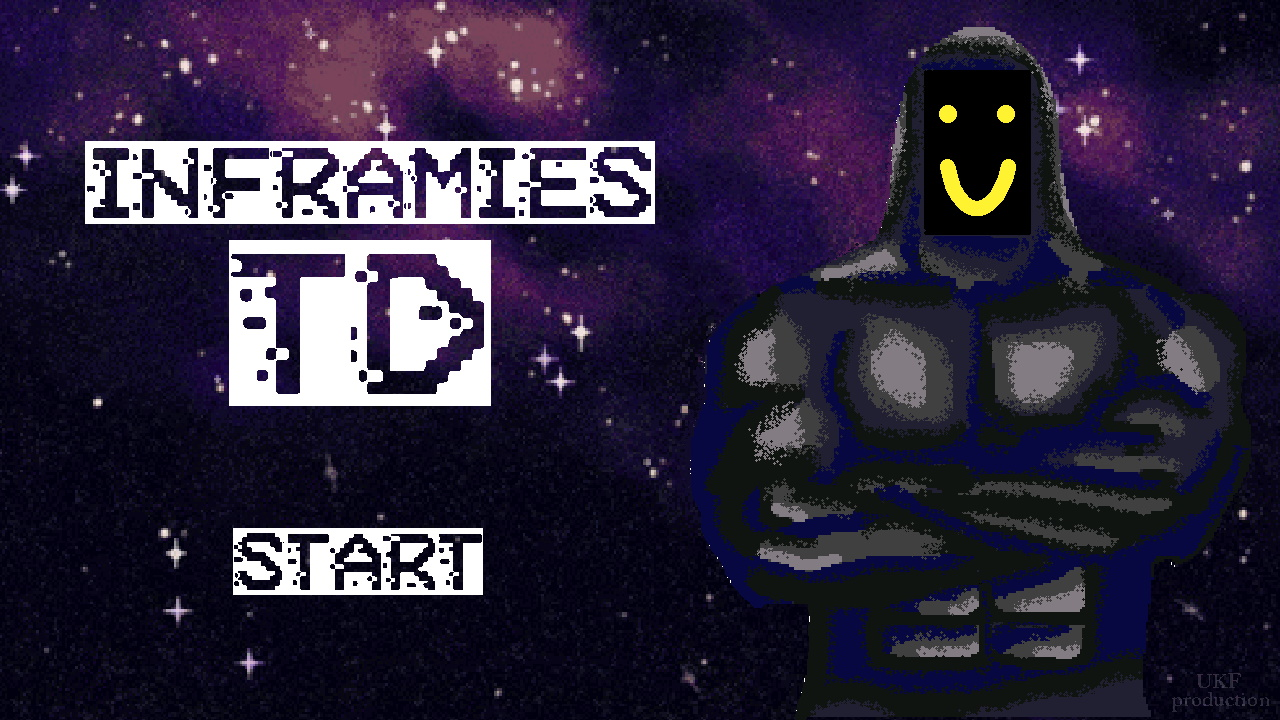
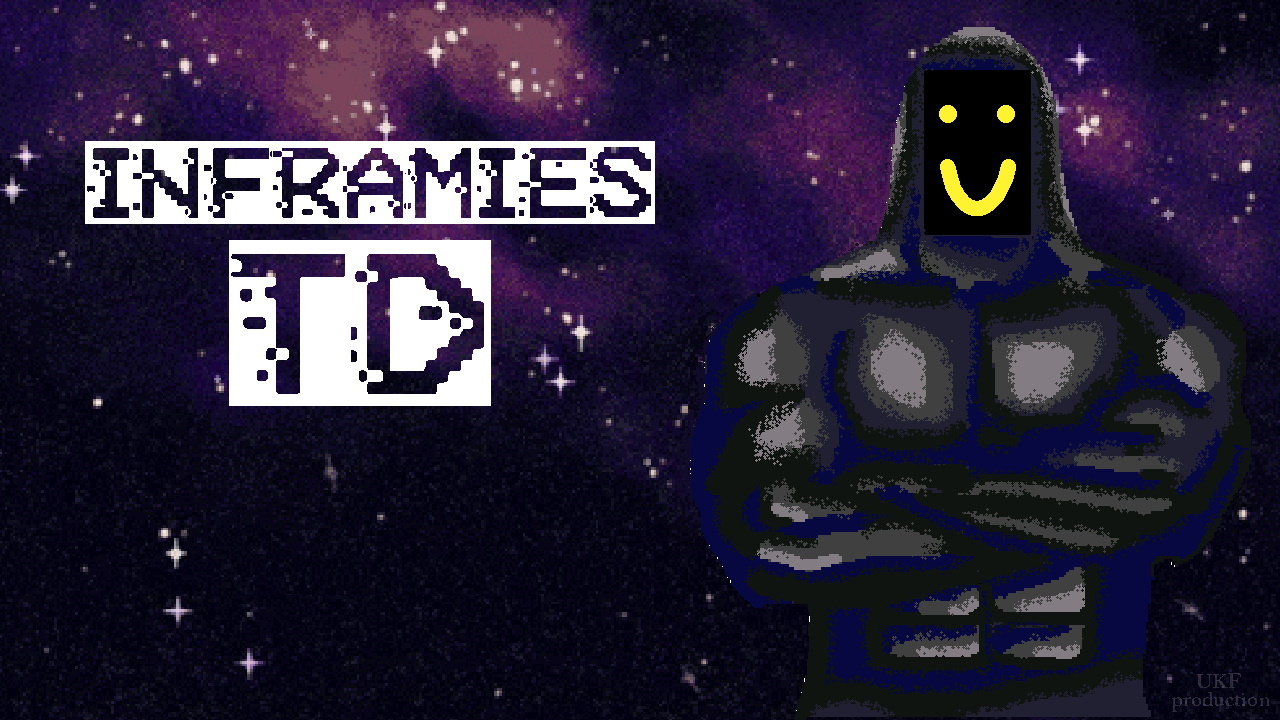
added difficulty options, slightly nerfed laser tower, boss health bar is history

Changed region(s): [[0.1562, 0.7333, 0.375, 0.825]]

diff --git a/scripts/game.js b/scripts/game.js
@@ -72,11 +72,12 @@ let LEVEL = -2;
 let WAVE = 0;
 let HEALTH;
 let MONEY;
-const STARTHEALTH = 50;
+let STARTHEALTH = 50;
 const STARTMONEY = 250;
 const WAVE_REWARD = 300;
 let SELECTED_TOWER = 1;
 
+let WAVE_SPEEDS = [150, 125, 100];
 let WAVE_SPEED = 150;
 
 const bigfont = { font: " 16px font1", fill: "#3CCEFF", boundsAlignH: "center", boundsAlignV: "middle" };
@@ -93,22 +94,24 @@ const HUD_ICON_SCALE = 0.5;
 const ENEMY_HEALTH = [50,300,800,1,300,800,70000,150000];
 const ENEMY_SPEED = [1/8000,1/10000,1/15000,1/4000,1/10000,1/15000,1/16000,1/20000];
 const ENEMY_REWARD = [8,18,28,1,22,32,2000,10000];
-const LEVEL_SPEED_MODIFIER = [0.7, 0.8, 0.9];
+let LEVEL_SPEED_MODIFIER = [0.7, 0.8, 0.9];
 
 let waveInProgress = false;
 let nextEnemy = 0;
 let waveIndex = 0;
 
-const CREDITS = ['InframiesTD v1.0.5\n\n Credits: \n mirzi - Game programming\nELdii - Database and backend programming\nROGERsvk - Graphic design, UI design\n' +
+const CREDITS = ['InframiesTD v1.1\n\n Credits: \n mirzi - Game programming\nELdii - Database and backend programming\nROGERsvk - Graphic design, UI design\n' +
                 '\nMusic used:\nTimesplitters 2 - Astrolander\nUnreal Tournament - Foregone Destruction\nNeed for Speed III - Hydrus 606\nNeed For Speed III - Romulus 3 (Mellow Sonic 2nd Remix)\nTimesplitters Future Perfect - Spaceport\nTimesplitters 2 - Ice Station\nRe-Volt - Credits\nTimesplitters 2 - Mission Success\nTimesplitters 2 - Mission Failed\n' +
                 '\nSound effects are mostly mashups from freesound.org.\nSource code is available at github.com/mirzi1/InframiesTD\nShoutouts to the Phaser devs. This game wouldn\'t be a reality without their game framework.\n\n']
 
 const TOWER_PRICES = [250,400,450,1000,700,600,3000,4000];
 
+let UPGRADE_MULTIPLIER = 1;
+
 const TOWER_SPEED = [700,1300,2000,3000,1000,1100,100,1000,
                     500,1000,1500,2500,700,900,70,1000];
 const TOWER_RANGE = [400,350,300,2000,300,500,500,2000,
-                    600,350,400,2000,350,600,550,2000];
+                    450,350,400,2000,350,600,550,2000];
 const TOWER_DESCRIPTION = ['Laser - Basic and all around good tower.',
                             'Electric - Low damage, slows enemies on hit.',
                             'Rocket - Slow but lethal, explosions deal area of effect damage.',
@@ -127,13 +130,13 @@ const TOWER_UPGRADE_DESCRIPTION = [ '+firerate, +range, damage shielded enemies'
                                     ''];
 
 const TOWER_DAMAGE = [50,10,100,500,10,50,40,1000,
-                      80,10,100,500,15,80,80,1000,
+                      70,10,100,500,15,80,80,1000,
                       15, 30];
 const PROJECTILE_SPEED = [900,600,500,4000,1000,800,700,1000,
-                          1200,600,600,5000,1200,1000,700,1000,
+                          900,600,600,5000,1200,1000,700,1000,
                           0, 0];
-const PROJECTILE_LIFESPAN = [500,500,1500,1000,300,500,600,500,
-                             500,500,1500,1000,300,500,600,500,
+const PROJECTILE_LIFESPAN = [400,500,1500,1000,300,500,600,500,
+                             400,500,1500,1000,300,500,600,500,
                              500, 500];
 const TOWER_FREEZETIME = 2000;
 
@@ -356,6 +359,7 @@ function preload(){
     this.load.image('cross', 'assets/graphics/ui/disabled.png');
     this.load.image('itdMenu', 'assets/graphics/ui/menu.jpg');
     this.load.image('hs_submit', 'assets/graphics/ui/hs_submit.png');
+    this.load.spritesheet('menu_buttons', 'assets/graphics/ui/menu_buttons.png',{frameHeight: 60, frameWidth: 280});
     this.load.spritesheet('star', 'assets/graphics/ui/star.png',{frameHeight: 4, frameWidth: 4});
     this.load.spritesheet('button_nextwave', 'assets/graphics/ui/button_nextwave.png',{frameHeight: 40, frameWidth: 156});
     this.load.spritesheet('topbuttons', 'assets/graphics/ui/topbuttons.png',{frameHeight: 40, frameWidth: 41});
@@ -557,11 +561,13 @@ let Enemy = new Phaser.Class({
     startOnPath:
     function(){
         this.hp = ENEMY_HEALTH[this.id-1];
+        /*
+        //TODO new boss health bars
         if(this.id>=7){
             waveInfo.setColor('#FF0000');
             showBossHealth();
             waveInfo.setText('BOSS HEALTH: '+this.hp);
-        }
+        }*/
         this.follower.t = 0;
         path.getPoint(this.follower.t, this.follower.vec);
         this.setPosition(this.follower.vec.x, this.follower.vec.y);
@@ -591,9 +597,12 @@ let Enemy = new Phaser.Class({
             this.setActive(false);
             this.destroy();
             playSound('a'+this.id);
+            /*
+            //TODO 2
             if(this.id>=7){
                 hideWaveInfo();
             }
+            */
         }
     },
     slow:
@@ -711,8 +720,8 @@ let Tower = new Phaser.Class({
                 }
                 if(SELECTED_TOWER === -2 && this.TowerType<8 && this.active === true){
                     //if there is enough money for an upgrade
-                    if(MONEY>=TOWER_PRICES[this.TowerType-1]){
-                        MONEY-=TOWER_PRICES[(this.TowerType%8)-1]
+                    if(MONEY>=TOWER_PRICES[this.TowerType-1]*UPGRADE_MULTIPLIER){
+                        MONEY-=TOWER_PRICES[(this.TowerType%8)-1]*UPGRADE_MULTIPLIER;
                         this.i = Math.floor(this.y / GRID_H);this.j = Math.floor(this.x / GRID_W);
                         playSound('upgrade');
                         updateMoneyText();
@@ -964,8 +973,65 @@ function create(){
     fsText.alpha = 0;
     background.alpha = 0;
 
+    let difficulty = 0;
+
+    let difficultybutton = this.add.image(420,580, 'menu_buttons', 1).setDepth(3).setInteractive().on('pointerdown', () => {
+        difficulty++;
+        if(difficulty === 3) difficulty = 0;
+        switch(difficulty){
+            case 0: difficultybutton.setTexture("menu_buttons", 1);break;
+            case 1: difficultybutton.setTexture("menu_buttons", 2);break;
+            case 2: difficultybutton.setTexture("menu_buttons", 3);break;
+        }
+    });
+    difficultybutton.alpha = 0;
+
+    let startbutton = this.add.image(300,500, 'menu_buttons').setDepth(3).setInteractive().on('pointerdown', () => {
+        if(LEVEL===-1){
+            createGame.call(this);
+        }
+        switch(difficulty){
+            case 0:
+                WAVE_SPEEDS = [150,125,100];
+                LEVEL_SPEED_MODIFIER = [0.7, 0.8, 0.9];
+                STARTHEALTH = 50;
+                UPGRADE_MULTIPLIER = 1;
+                break;
+            case 1:
+                WAVE_SPEEDS = [125,100,90];
+                LEVEL_SPEED_MODIFIER = [0.75, 0.85, 0.95];
+                STARTHEALTH = 30;
+                UPGRADE_MULTIPLIER = 2;
+                break;
+            case 2:
+                WAVE_SPEEDS = [100,90,80];
+                LEVEL_SPEED_MODIFIER = [0.8, 0.9, 1];
+                STARTHEALTH = 10;
+                UPGRADE_MULTIPLIER = 2;
+                break;
+        }
+        nextLevel();
+        globalTime = 0;
+        startbutton.destroy();
+        difficultybutton.destroy();
+    });
+    startbutton.alpha = 0;
+
     //don't mind me
-    fsrect = this.add.rectangle(640, 360, 1280, 720, 0x000000).setDepth(3).setInteractive().on('pointerdown', () => {if(fsrect.active === true){if(LEVEL===-1){createGame.call(this);}nextLevel();globalTime = 0;}});
+    fsrect = this.add.rectangle(640, 360, 1280, 720, 0x000000).setDepth(3).setInteractive().on('pointerdown', () => {
+        if(fsrect.active === true){
+            nextLevel();
+            fsrect.alpha = 0;
+            tw.add({
+                targets: [startbutton, difficultybutton],
+                alpha: 1,
+                duration: 500,
+                x: 360,
+                ease: 'Sine.easeOut',
+                repeat: 0
+            });
+        }
+    });
     fsrect.alpha = 0.01;
 
     music = this.sound.add('intro', {volume: 0.3, loop: true});             //bgm
@@ -1193,7 +1259,7 @@ function sellTool(){
 function upgradeTool(){
     SELECTED_TOWER = -2;
     selectedImg.setTexture('button_icons', 0).setScale(1);
-    selectedInfo.setText('Upgrade (Costs as much as the tower)');
+    selectedInfo.setText('Upgrade ('+UPGRADE_MULTIPLIER+'x the cost of the tower)');
     game.input.setDefaultCursor('url(assets/graphics/ui/cursor_upgrade.cur), pointer');
 
     tw.add({
@@ -1252,20 +1318,21 @@ function updateWaveText(){
 }
 
 function updateHpText(){
-    //hpText.y = 6;
+    hpText.scale = 1.5;
+    hpText.y = 9;
     if(HEALTH <= 0){
         HEALTH = 0;
         showDefeatScreen();
     }
     hpText.setText(HEALTH);
-    /*
+
     tw.add({
         targets: hpText,
         duration: 100,
+        scale: 1,
         y: 13,
         repeat: 0
     });
-    */
 }
 
 function updateMoneyText(){
@@ -1415,6 +1482,7 @@ function nextLevel(){
         case -1:
             background.setTexture('itdMenu');
             background.scale = 1.2;
+            fsrect.setActive(false);
 
             tw.add({
                 targets: background,
@@ -1437,7 +1505,6 @@ function nextLevel(){
             music.play();
             break;
         case 0:
-            fsrect.setActive(false);
             tw.add({
                 targets: fsrect,
                 duration: 200,
@@ -1450,7 +1517,7 @@ function nextLevel(){
             break;
         case 1:
             graphics.lineStyle(3, 0x999999).alpha = 0;
-            WAVE_SPEED = 150;
+            WAVE_SPEED = WAVE_SPEEDS[LEVEL-1];
             path = new Phaser.Curves.Path(250, 40);
             path.lineTo(250, 100);
             path.lineTo(510, 150);
@@ -1470,7 +1537,7 @@ function nextLevel(){
             break;
         case 2:
             graphics.lineStyle(3, 0x000000).alpha = 0;
-            WAVE_SPEED = 125;
+            WAVE_SPEED = WAVE_SPEEDS[LEVEL-1];
             path = new Phaser.Curves.Path(300, 40);
             path.lineTo(285, 567);
             path.lineTo(494, 589);
@@ -1488,7 +1555,7 @@ function nextLevel(){
             break;
         case 3:
             graphics.lineStyle(3, 0xffff00).alpha = 0;
-            WAVE_SPEED = 100;
+            WAVE_SPEED = WAVE_SPEEDS[LEVEL-1];
             path = new Phaser.Curves.Path(300, 40);
             path.lineTo(300, 570);
             path.lineTo(1130, 570);
@@ -1631,23 +1698,29 @@ function generateAnims(){
 function updateWaveInfo(){
     waveInfo.setText(WAVE_DESCRIPTION[WAVE]);
     waveInfo.setColor('#FFFFFF');
-    waveInfo.scale = 0;
+    waveInfo.x = 590;
+    waveInfo.scale = 1.5;
+    waveInfo.alpha = 0;
     tw.add({
         targets: waveInfo,
         duration: 300,
+        x: 690,
         scale: 1,
-        ease: 'Back.easeOut',
+        alpha: 1,
+        ease: 'Sine.easeOut',
         repeat: 0
     });
 }
 
 function hideWaveInfo(){
-    waveInfo.scale = 1;
+    waveInfo.x = 690;
     tw.add({
         targets: waveInfo,
         duration: 300,
-        scale : 0,
-        ease: 'Back.easeIn',
+        x: 790,
+        alpha : 0,
+        scale: 1.2,
+        ease: 'Sine.easeIn',
         repeat: 0
     });
 }
@@ -1774,11 +1847,11 @@ function showVictoryScreen(){
                     fsmusic = game.sound.add('victory', {volume: 0.3});
                     fsmusic.play();
                 }
-                dimScreen(0.5, 500);
+                dimScreen(0.5, 300);
                 //emitter_victory.emitParticleAt(640, 360);
 
                 fsText.setText('LEVEL\nCOMPLETE').setDepth(4);
-                fsText.scale = 0;
+                fsText.scale = 2;
                 fsText.alpha = 0;
                 tw.add({
                     targets: fsText,
@@ -2025,12 +2098,16 @@ function hideFsMessage(){
 }
 
 function showBossHealth(){
-    waveInfo.scale = 0;
+    waveInfo.x = 590;
+    waveInfo.scale = 1.5;
+    waveInfo.alpha = 0;
     tw.add({
         targets: waveInfo,
         duration: 300,
-        scale: 2,
-        ease: 'Back.easeOut',
+        x: 690,
+        scale: 1,
+        alpha: 1,
+        ease: 'Sine.easeOut',
         repeat: 0
     });
 }
